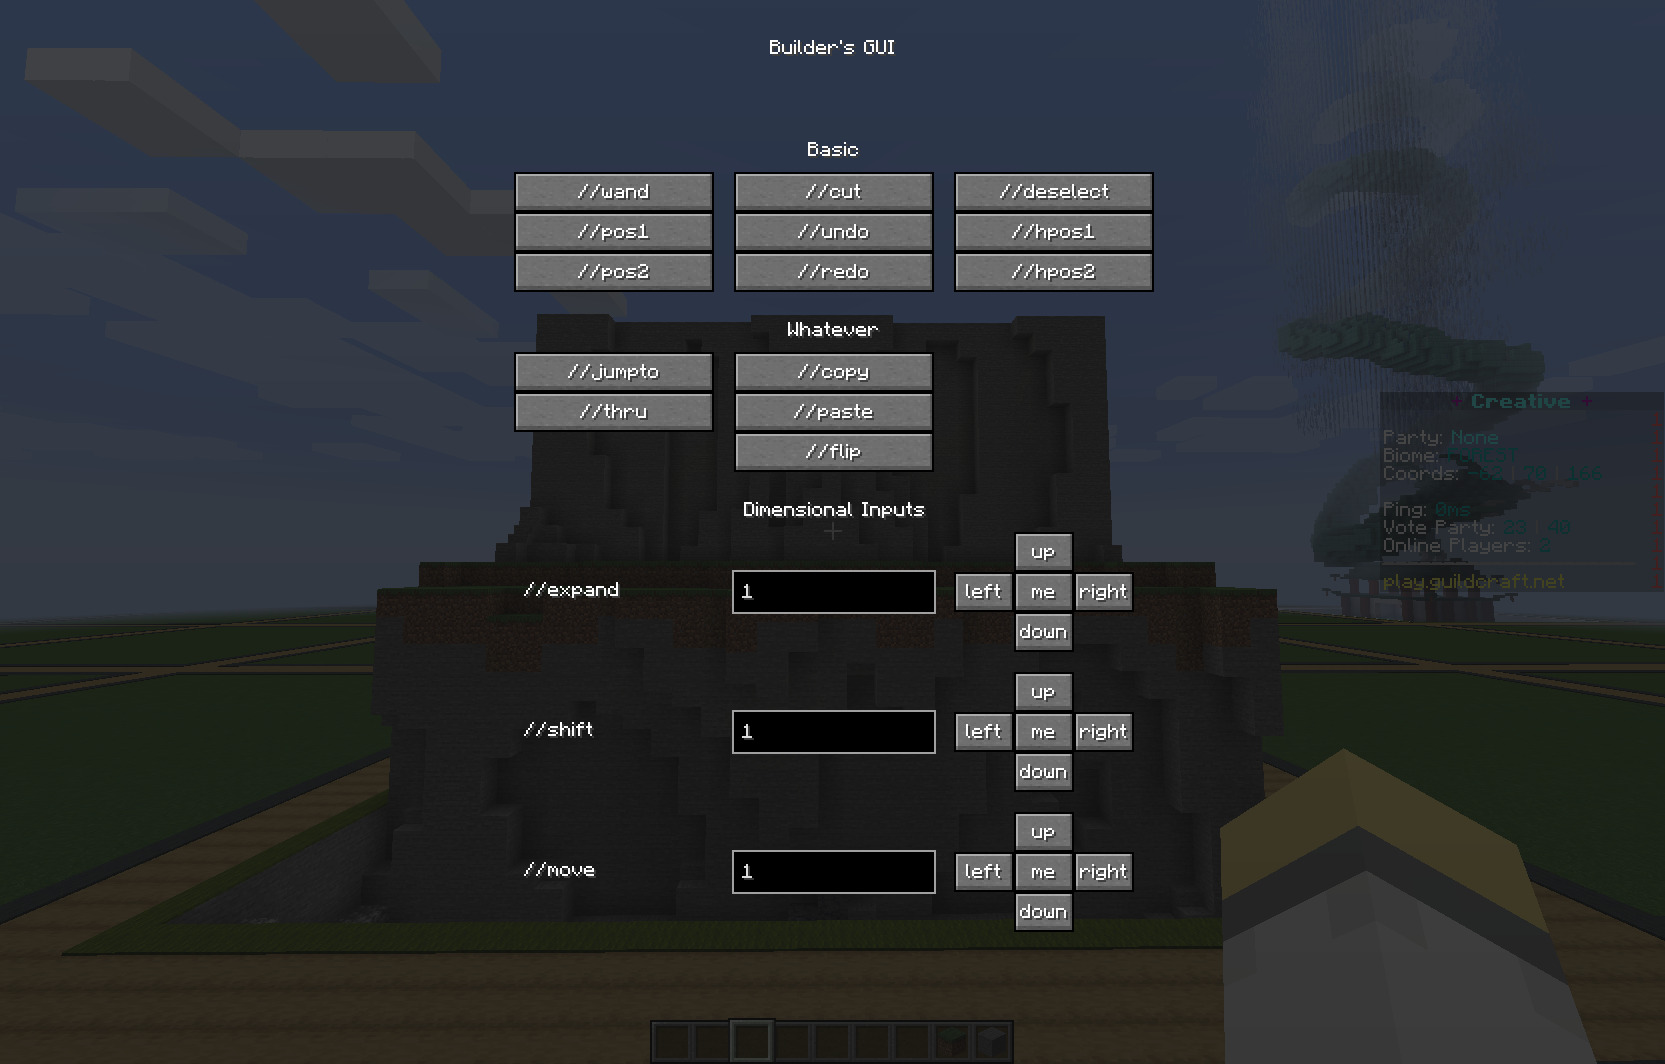
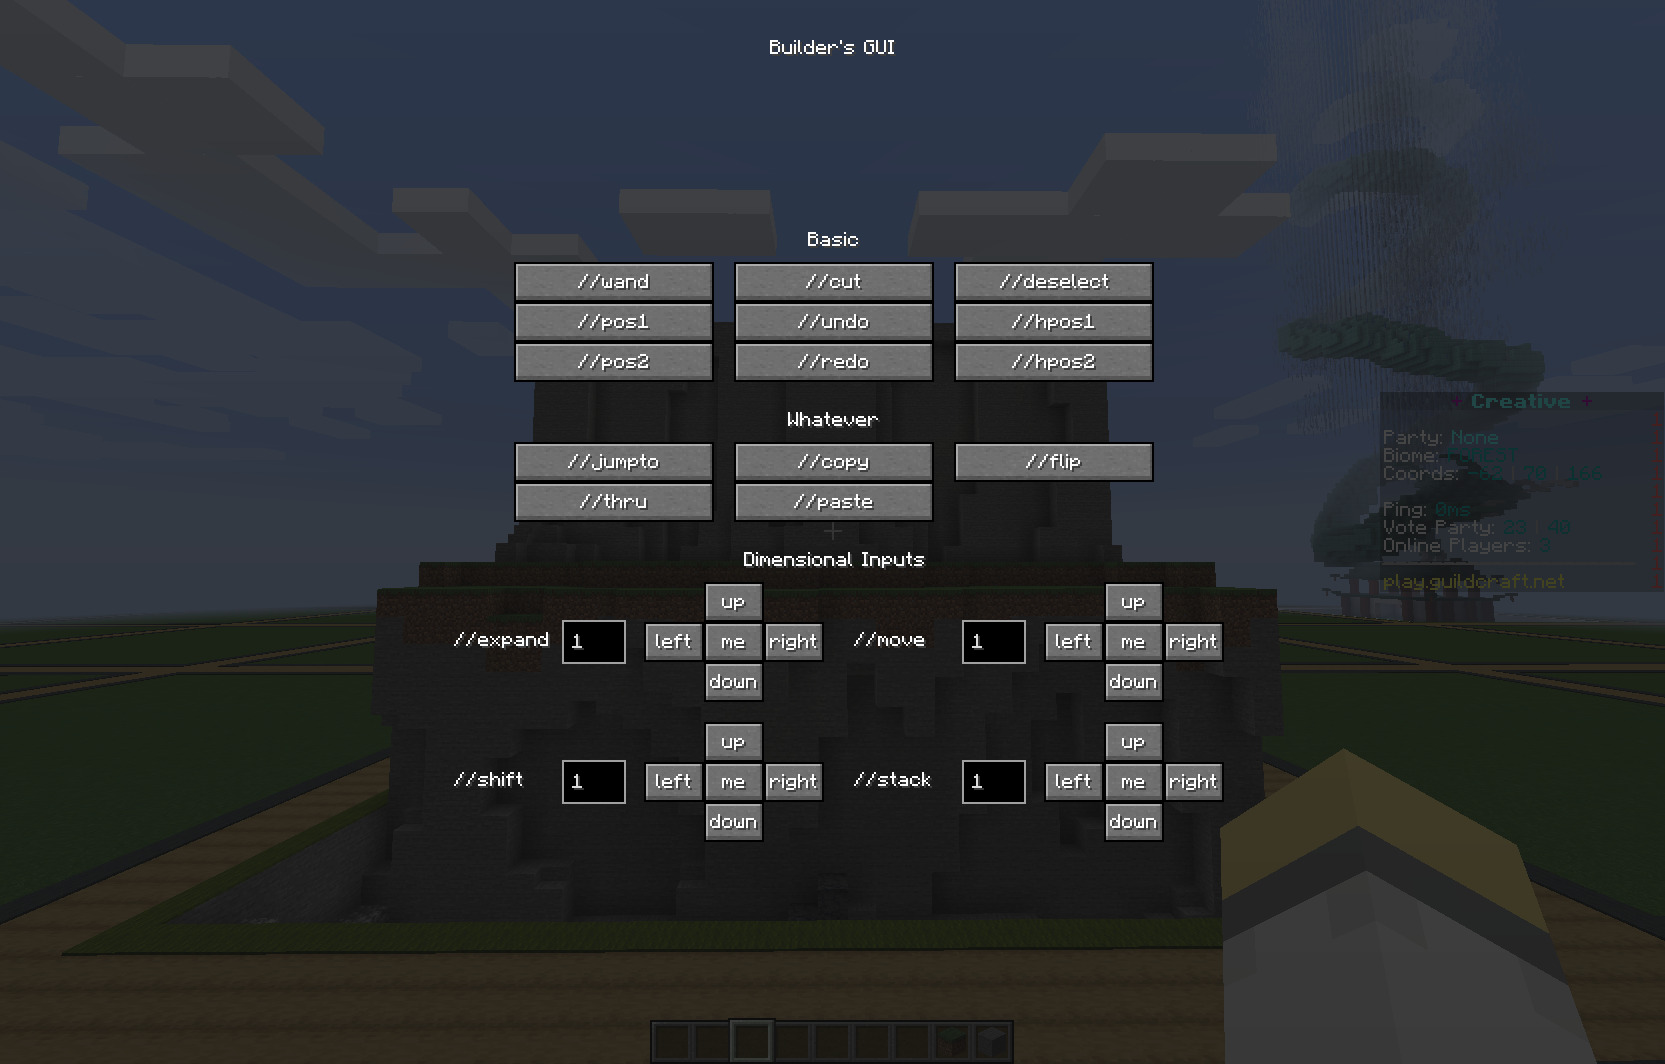
better layout, new image

Changed region(s): [[0.2811, 0.1551, 0.7495, 0.8994], [0.3123, 0.8064, 0.3748, 0.8374]]

diff --git a/WEScreen/InitiateWEScreen.js b/WEScreen/InitiateWEScreen.js
@@ -23,12 +23,14 @@ const sections = [
 		title: "Whatever",
 		groups: [
 			[ "jumpto", "thru" ],
-			[ "copy", "paste", "flip" ]
+			[ "copy", "paste"  ],
+			[ "flip" ]
 		]
 	}, {
 		title: "Dimensional Inputs",
 		groups: [
-			[ dimensionalInput("expand"), dimensionalInput("shift"), dimensionalInput("move") ]
+			[ dimensionalInput("expand"), dimensionalInput("shift")],
+			[ dimensionalInput("move"), dimensionalInput("stack")]
 		]
 	}
 ]
@@ -106,12 +108,12 @@ function screenInit(){
 	const totalWidth = sections.reduce((prev,curr) => Math.max(prev,curr.width), 0);
 	const screenWidth = draw2D.getWidth();
 	const screenHeight = draw2D.getHeight();
-	const xOffset = toInt(screenWidth/2) - totalWidth/2;
+	const xOffset = toInt(screenWidth/2);
 	const yOffset = toInt(screenHeight/2) - totalHeight/2;
-	let baseOffset = {x:xOffset,y:yOffset};
+	let baseOffset = {x: xOffset, y: yOffset};
 	// render sections
 	sections.forEach(section => {
-		let sectionOffset = {x:baseOffset.x,y:baseOffset.y};
+		let sectionOffset = {x:baseOffset.x - section.width/2,y:baseOffset.y};
 		// render the title
 		renderTitle(theScreen, section.title, toInt(screenWidth/2), toInt(sectionOffset.y + titleHeight - 20));
 		sectionOffset.y += titleHeight;

diff --git a/WEScreen/dimensionalInput.js b/WEScreen/dimensionalInput.js
@@ -1,6 +1,8 @@
 const groupSpacing = 10;
 const dirButtonHeight = 20;
 const dirButtonWidth = 30;
+const inputWidth = 30;
+const commandTextWidth = 50;
 
 
 let directionCommandFunction = function(command, direction){
@@ -22,7 +24,7 @@ module.exports = function(command){
 
 	return {
 		type: "dimensionalInput",
-		width: 300,
+		width: commandTextWidth + inputWidth + groupSpacing*2 + dirButtonWidth*3,
 		height: 20 + dirButtonHeight*2 + 10,
 		render: function(screen,xOffset,yOffset){
 			let componentOffset = { x: xOffset, y: yOffset };
@@ -33,16 +35,16 @@ module.exports = function(command){
 				0xffffff,
 				true
 			);
-			componentOffset.x += 100 + groupSpacing;
+			componentOffset.x += commandTextWidth + groupSpacing;
 
 			let intInput = screen.addTextInput(
 				componentOffset.x,
 				componentOffset.y + dirButtonHeight,
-				100, 20, 1,
+				inputWidth, 20, 1,
 				command,
 				JavaWrapper.methodToJava(inputMethod)
 			).setText("1", false);
-			componentOffset.x += 100 + groupSpacing;
+			componentOffset.x += inputWidth + groupSpacing;
 
 			// directionButtons
 			screen.addButton(
